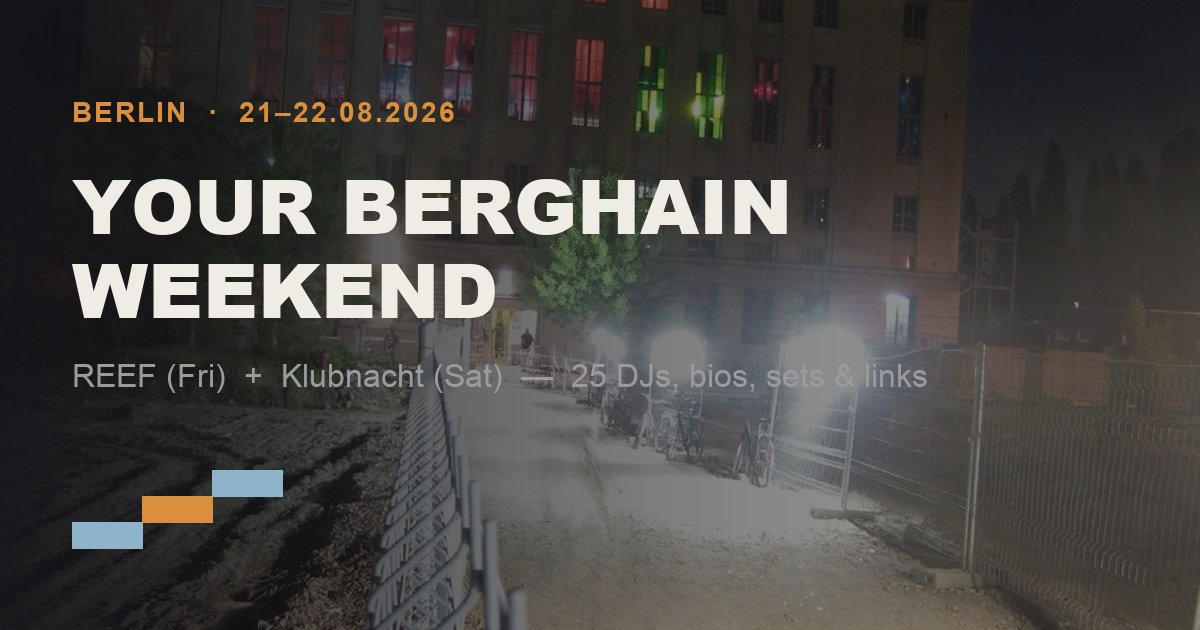
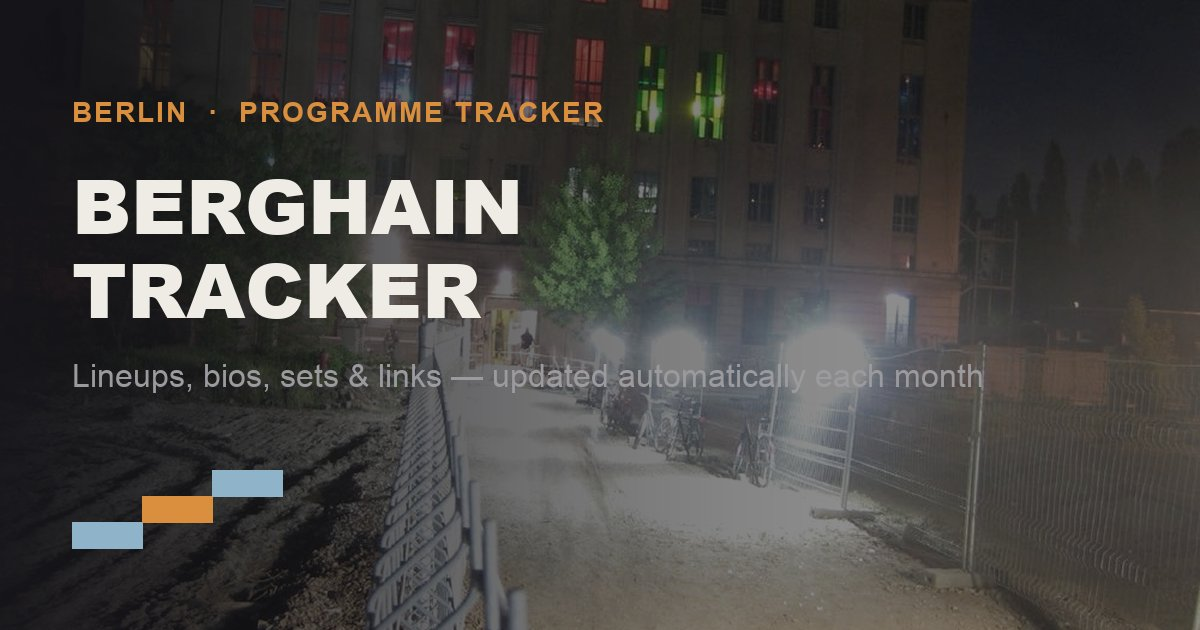
Genericize site copy and OG image for an ongoing programme archive

diff --git a/index.html b/index.html
@@ -1,20 +1,20 @@
 <meta charset="utf-8">
 <meta name="viewport" content="width=device-width, initial-scale=1">
-<title>Your Berghain Weekend — 21–22.08.2026</title>
-<meta name="description" content="Interactive lineup guide for Berghain's Friday 21.08 REEF and Saturday 22.08 Klubnacht — bios, genre tags, links and performance history for all 25 DJs across both rooms.">
+<title>Berghain Programme Tracker</title>
+<meta name="description" content="Interactive programme guide for Berghain — lineups, bios, genre tags and links for every night, updated automatically each month.">
[1 lines of base64/hex data omitted]
 <link rel="icon" type="image/png" href="/favicon.png">
 <link rel="apple-touch-icon" href="/favicon.png">
 <meta property="og:type" content="website">
 <meta property="og:url" content="https://berghain-weekend-tracker.vercel.app">
-<meta property="og:title" content="Your Berghain Weekend — 21–22.08.2026">
-<meta property="og:description" content="REEF (Fri) + Klubnacht (Sat) — bios, genre tags, links and performance history for all 25 DJs across both rooms.">
+<meta property="og:title" content="Berghain Programme Tracker">
+<meta property="og:description" content="Every night at Berghain — bios, genre tags and links for the full lineup, updated automatically each month.">
 <meta property="og:image" content="https://berghain-weekend-tracker.vercel.app/og-image.jpg">
 <meta property="og:image:width" content="1200">
 <meta property="og:image:height" content="630">
 <meta name="twitter:card" content="summary_large_image">
-<meta name="twitter:title" content="Your Berghain Weekend — 21–22.08.2026">
-<meta name="twitter:description" content="REEF (Fri) + Klubnacht (Sat) — bios, genre tags, links and performance history for all 25 DJs across both rooms.">
+<meta name="twitter:title" content="Berghain Programme Tracker">
+<meta name="twitter:description" content="Every night at Berghain — bios, genre tags and links for the full lineup, updated automatically each month.">
 <meta name="twitter:image" content="https://berghain-weekend-tracker.vercel.app/og-image.jpg">
 <style>
   :root {
@@ -193,9 +193,9 @@
 
 <div class="page">
   <div class="intro">
-    <span class="intro-eyebrow">Berlin &#183; 21&#8211;22.08.2026</span>
-    <h1 class="intro-headline">Your Berghain Weekend</h1>
-    <p class="intro-subtext">Two nights, two rooms, 25 sets. REEF on Friday, Klubnacht on Saturday — tap any name for their sound, bio and links before you're inside.</p>
+    <span class="intro-eyebrow">Berlin &#183; Ongoing</span>
+    <h1 class="intro-headline">Berghain Programme Tracker</h1>
+    <p class="intro-subtext">Every night at Berghain, tracked monthly — tap any name for their sound, bio and links before you're inside.</p>
   </div>
   <header class="toggle" id="toggle"></header>
   <div class="floors" id="floors"></div>

diff --git a/scripts/genericize_copy.py b/scripts/genericize_copy.py
@@ -1,0 +1,57 @@
+#!/usr/bin/env python3
+"""One-off script: replace weekend-specific copy in index.html (title, meta
+tags, intro headline) with copy that describes an ongoing archive instead of
+one fixed weekend."""
+
+HTML_PATH = "index.html"
+
+with open(HTML_PATH) as f:
+    html = f.read()
+
+REPLACEMENTS = [
+    (
+        "<title>Your Berghain Weekend — 21–22.08.2026</title>",
+        "<title>Berghain Programme Tracker</title>",
+    ),
+    (
+        '<meta name="description" content="Interactive lineup guide for Berghain\'s Friday 21.08 REEF and Saturday 22.08 Klubnacht — bios, genre tags, links and performance history for all 25 DJs across both rooms.">',
+        '<meta name="description" content="Interactive programme guide for Berghain — lineups, bios, genre tags and links for every night, updated automatically each month.">',
+    ),
+    (
+        '<meta property="og:title" content="Your Berghain Weekend — 21–22.08.2026">',
+        '<meta property="og:title" content="Berghain Programme Tracker">',
+    ),
+    (
+        '<meta property="og:description" content="REEF (Fri) + Klubnacht (Sat) — bios, genre tags, links and performance history for all 25 DJs across both rooms.">',
+        '<meta property="og:description" content="Every night at Berghain — bios, genre tags and links for the full lineup, updated automatically each month.">',
+    ),
+    (
+        '<meta name="twitter:title" content="Your Berghain Weekend — 21–22.08.2026">',
+        '<meta name="twitter:title" content="Berghain Programme Tracker">',
+    ),
+    (
+        '<meta name="twitter:description" content="REEF (Fri) + Klubnacht (Sat) — bios, genre tags, links and performance history for all 25 DJs across both rooms.">',
+        '<meta name="twitter:description" content="Every night at Berghain — bios, genre tags and links for the full lineup, updated automatically each month.">',
+    ),
+    (
+        '''  <div class="intro">
+    <span class="intro-eyebrow">Berlin &#183; 21&#8211;22.08.2026</span>
+    <h1 class="intro-headline">Your Berghain Weekend</h1>
+    <p class="intro-subtext">Two nights, two rooms, 25 sets. REEF on Friday, Klubnacht on Saturday — tap any name for their sound, bio and links before you're inside.</p>
+  </div>''',
+        '''  <div class="intro">
+    <span class="intro-eyebrow">Berlin &#183; Ongoing</span>
+    <h1 class="intro-headline">Berghain Programme Tracker</h1>
+    <p class="intro-subtext">Every night at Berghain, tracked monthly — tap any name for their sound, bio and links before you're inside.</p>
+  </div>''',
+    ),
+]
+
+for old, new in REPLACEMENTS:
+    assert old in html, f"replacement text not found:\n{old[:80]}..."
+    html = html.replace(old, new, 1)
+
+with open(HTML_PATH, "w") as f:
+    f.write(html)
+
+print(f"Applied {len(REPLACEMENTS)} copy replacements.")

diff --git a/scripts/compose_og_image.py b/scripts/compose_og_image.py
@@ -54,10 +54,10 @@ def tracked_text(draw, pos, text, font, fill, tracking=0):
         x += w + tracking
 
 margin = 72
-tracked_text(draw, (margin, 96), "BERLIN  ·  21–22.08.2026", eyebrow_font, PANORAMA, tracking=2)
-draw.text((margin, 150), "YOUR BERGHAIN", font=headline_font, fill=FG)
-draw.text((margin, 234), "WEEKEND", font=headline_font, fill=FG)
-draw.text((margin, 358), "REEF (Fri)  +  Klubnacht (Sat)  —  25 DJs, bios, sets & links", font=sub_font, fill=MUTED)
+tracked_text(draw, (margin, 96), "BERLIN  ·  PROGRAMME TRACKER", eyebrow_font, PANORAMA, tracking=2)
+draw.text((margin, 150), "BERGHAIN", font=headline_font, fill=FG)
+draw.text((margin, 234), "TRACKER", font=headline_font, fill=FG)
+draw.text((margin, 358), "Lineups, bios, sets & links — updated automatically each month", font=sub_font, fill=MUTED)
 
 # Small staircase motif, bottom-left, echoing the page's own divider
 step_y = 470
@@ -70,5 +70,5 @@ steps = [
 for x, y, w, color in steps:
     draw.rectangle([x, y, x + w, y + step_h], fill=color)
 
-canvas.save("assets/og-image.jpg", quality=85)
-print("Saved assets/og-image.jpg", canvas.size)
+canvas.save("og-image.jpg", quality=85)
+print("Saved og-image.jpg", canvas.size)
